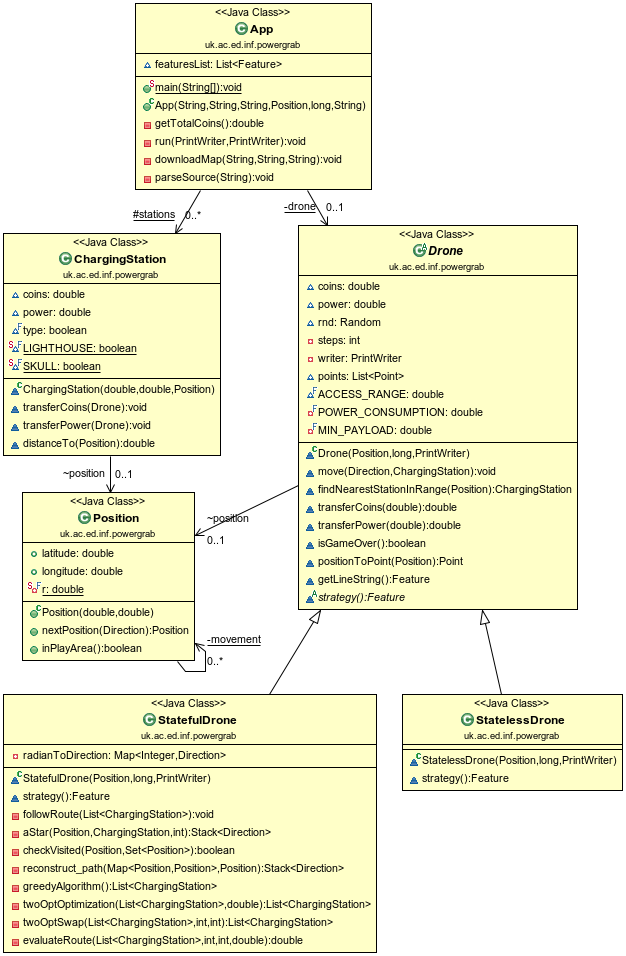
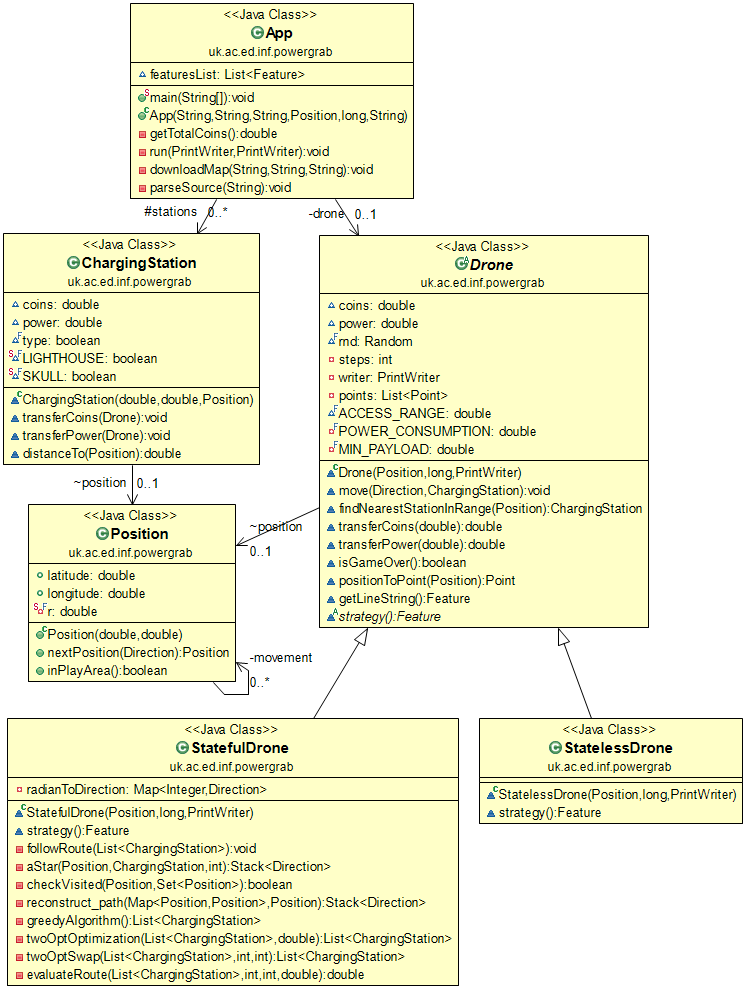
Fix some typos of comments, generate class diagram

Changed region(s): [[0.0, 0.0, 0.9409, 0.6977], [0.0, 0.6977, 1.0, 1.0], [0.4249, 0.6977, 0.4553, 0.728]]

diff --git a/powergrab/src/main/java/uk/ac/ed/inf/powergrab/App.java b/powergrab/src/main/java/uk/ac/ed/inf/powergrab/App.java
@@ -15,7 +15,7 @@ import com.mapbox.geojson.*;
 
 
 /**
- * App is the main part of this application, like a interface. It contains the informations about stations and the drone.
+ * App is the main part of this application, like a interface. It contains the information about stations and the drone.
  * I used this function directly instead of creating a new class called map. It is because I think App class can represent the map. 
  * @author s1740055
  */
@@ -153,7 +153,7 @@ public class App {
     }
     
     /**
-     * This parses the string and gets informations about stations.
+     * This parses the string and gets information about stations.
      * @param mapSource The JSON data about the map
      */
     private void parseSource(String mapSource) {

diff --git a/powergrab/src/main/java/uk/ac/ed/inf/powergrab/ChargingStation.java b/powergrab/src/main/java/uk/ac/ed/inf/powergrab/ChargingStation.java
@@ -1,7 +1,7 @@
 package uk.ac.ed.inf.powergrab;
 
 /**
- * ChargingStation encapsulates the useful informations of a charging station.
+ * ChargingStation encapsulates the useful information of a charging station.
  * The data includes:
  * <ul>
  * <li>The coins stored in the station
@@ -11,7 +11,7 @@ package uk.ac.ed.inf.powergrab;
  * </ul>
  * <p>
  * It also provides two constants for further checking the type of a charging station,
- * and several functions to update the informations of the station.
+ * and several functions to update the information of the station.
  * 
  * @author s1740055
  */

diff --git a/powergrab/src/main/java/uk/ac/ed/inf/powergrab/Drone.java b/powergrab/src/main/java/uk/ac/ed/inf/powergrab/Drone.java
@@ -36,10 +36,10 @@ public abstract class Drone {
 	Position position;
 	double coins;
 	double power;
-	Random rnd;
+	final Random rnd;
 	private int steps;
 	private PrintWriter writer;
-	List<Point> points = new ArrayList<Point>();
+	private List<Point> points = new ArrayList<Point>();
 	
 	final double ACCESS_RANGE = 0.00025;
 	private final double POWER_CONSUMPTION = 1.25;

diff --git a/powergrab/src/main/java/uk/ac/ed/inf/powergrab/StatefulDrone.java b/powergrab/src/main/java/uk/ac/ed/inf/powergrab/StatefulDrone.java
@@ -47,7 +47,6 @@ public class StatefulDrone extends Drone{
 	 */
 	@Override
 	Feature strategy() {
-		points.add(positionToPoint(position));
 		Direction[] directions = Direction.values();
 		
 		List<ChargingStation> route = greedyAlgorithm(); // Get the access order of light houses.

diff --git a/powergrab/src/main/java/uk/ac/ed/inf/powergrab/Position.java b/powergrab/src/main/java/uk/ac/ed/inf/powergrab/Position.java
@@ -2,11 +2,6 @@ package uk.ac.ed.inf.powergrab;
 
 import java.util.HashMap;
 
-/**
- * 
- * 
- * @author s1740055
- */
 public class Position {
 	
 	public double latitude;
